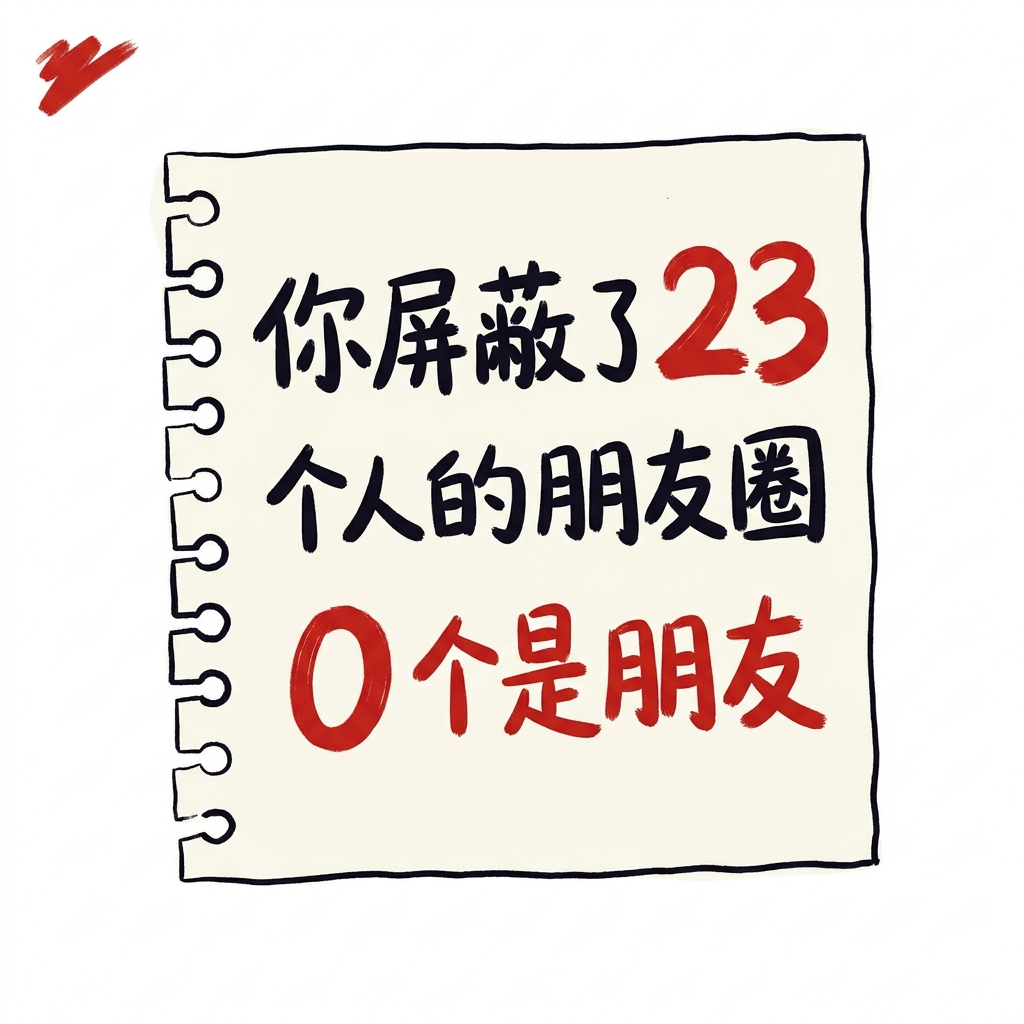
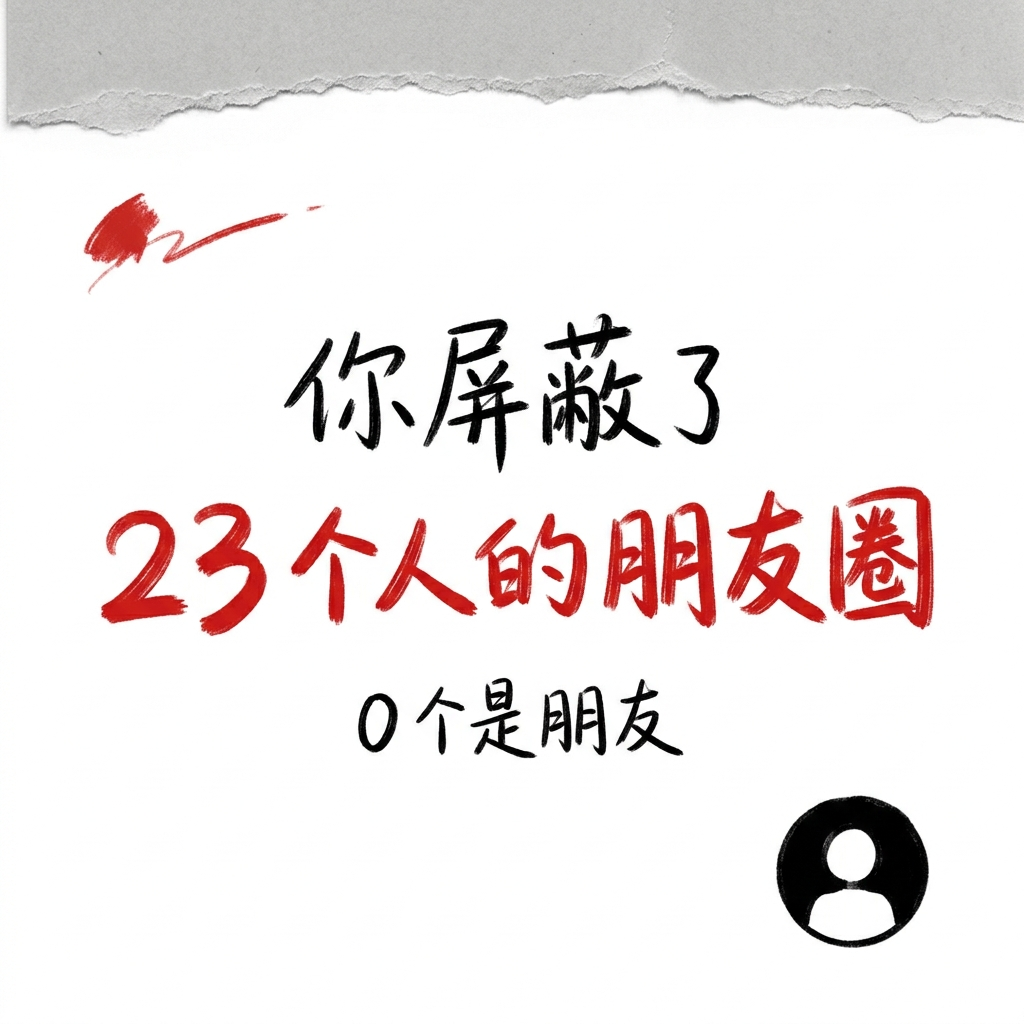
v2.8.6 修正: 005/006 配图改成跟公众号 020/021 同款风格 (纯白底 + 黑色手写 + 红色高亮)
之前两次纠正都错:
1. 第一次改纯白底 (方向对但无文字太空)
2. 改回撕下草稿纸 (错! 用户原意是公众号配图风格)
3. 这次: 纯白底 + 顶部轻微撕下边装饰 (1-2cm) + 黑色手写完整段落 + 红色高亮 + 简洁插画 + 红色 brush stroke

跟 015 GPT-5.6 / 020 大厂门票 / 021 OpenAI 降价 配图同源:
- 纯白底 (no 米色草稿纸, no 锯齿边, no 装订孔)
- 顶部 1-2cm 灰色撕下边装饰 (跟 020 一样, 不是整个草稿纸)
- 黑色手写中文 (每张图承载 1 段完整话)
- 红色高亮 (大字数字/关键词)
- 1 个简洁插画元素
- 留白多
- 红色 brush stroke 装饰

文字内容不变 (屏蔽朋友圈 23/0, 工位 1 小时 12/0), 只重做配图风格。
README + content.md + DOUYIN-DRAFT-IDS 同步更新'按公众号配图风格' 的真正含义

Changed region(s): [[0.0, 0.0, 1.0, 0.9375], [0.25, 0.1875, 0.2812, 0.2188]]

diff --git a/doc/douyin/README.md b/doc/douyin/README.md
@@ -61,9 +61,10 @@ tags:                 # 3-5 个话题标签
   - 4-6 张: 中等 (经典结构: 封面 + 引入 + 转折 + 图解 + 扎心 + 可选 CTA)
   - 7-9 张: 完整 (适合多步骤解释/案例对比/概念拆解)
   - 默认 4-6 张, 按主题增减
-- **风格**: xiaofan-ink 风格 (白底手绘/撕下草稿纸/线条) + 心理学元素
-  - 撕下草稿纸风格: 米色草稿纸 + 锯齿边 + 左侧装订孔 + 红色 brush stroke 装饰
-  - 005/006 (v2.8.6) 跟 003/004 保持同款风格, 用户反馈"突出线条" 是在草稿纸框架内把线条做得更松/更飞白,不是去掉草稿纸
+- **风格**: xiaofan-ink 风格 (白底手绘/线条) + 心理学元素
+  - **v2.8.6 修正 (8/25)**: 抖音图文配图改成跟公众号 015/020/021 同款 — **纯白底 + 顶部轻微撕下边 (1-2cm 装饰) + 黑色手写完整段落 + 红色高亮 + 简洁插画 + 红色 brush stroke**
+  - 砍掉 003/004 的"撕下草稿纸" 整体框架 (米色 + 锯齿边 + 装订孔), 跟公众号配图同源
+  - 之前两次纠正都错 (v2.8.6 改纯白底没文字 → 改回撕下草稿纸 → 再次改回纯白底带文字)
 - **新流程前置**: 写每篇之前先列"配图说明表" (在 content.md 末尾), 标每张图的内容/风格/作用
 - **抖音配图全状态** (不画人物动作), 跟公众号"动作型→IP" 规则解耦
 - **每张配图配 1 个心理学插画元素** (v2.7.2 起, 不只是文字, 还要有 1 个概念图: 天平/账本/箭头/对话气泡/小剪影/问号)

diff --git a/doc/douyin/DOUYIN-DRAFT-IDS.md b/doc/douyin/DOUYIN-DRAFT-IDS.md
@@ -42,7 +42,7 @@
 - 私密: 屏蔽朋友圈 (005), 假装忙碌 (006)
 - 钩子: 强金句收尾
 
-**风格 (v2.8.6 修正, 8/25)**: 005/006 跟 003/004 保持同款"撕下草稿纸 + 红色 brush stroke + 黑色手写" 风格。 之前 v2.8.6 尝试改成"纯白底 + 红色大字" 风格, 用户反馈"还不如之前的", 改回原样。
+**风格 (v2.8.6 修正, 8/25)**: 005/006 改成跟公众号 015/020/021 配图同款 — **纯白底 + 顶部轻微撕下边装饰 + 黑色手写完整段落 + 红色高亮 + 简洁插画 + 红色 brush stroke**。 砍掉 003/004 的"撕下草稿纸" 整体框架, 跟公众号配图同源。 之前两次纠正都错 (改纯白底无文字 → 改回撕下草稿纸 → 再次改回纯白底带文字), 用户原意是"按公众号配图那种风格"。
 
 ---
 

diff --git a/doc/douyin/005-mute-23-friends/content.md b/doc/douyin/005-mute-23-friends/content.md
@@ -66,9 +66,9 @@ tags:
 
 ---
 
-# 配图说明 (跟 003/004 撕下草稿纸同款风格)
+# 配图说明 (跟公众号 020/021 配图同款风格)
 
-> **风格 (v2.8.6 修正)**: 用户反馈"突出线条" 是在撕下草稿纸框架内把线条做得更松, 005/006 跟 003/004 保持完全一致的"撕下草稿纸 + 红色 brush stroke + 黑色手写" 风格。
+> **风格 (v2.8.6 修正, 8/25)**: 抖音图文配图改成跟公众号 015/020/021 配图同款 — **纯白底 + 顶部轻微撕下边装饰 + 黑色手写完整段落 + 红色高亮 + 简洁插画 + 红色 brush stroke**。 砍掉 003/004 的"撕下草稿纸" 整体框架 (米色 + 锯齿边 + 装订孔), 跟公众号同源。
 
 | 文件 | 内容 | 风格 | 作用 |
 |---|---|---|---|

diff --git a/doc/douyin/006-fake-busy/content.md b/doc/douyin/006-fake-busy/content.md
@@ -73,9 +73,9 @@ tags:
 
 ---
 
-# 配图说明 (跟 003/004 撕下草稿纸同款风格)
+# 配图说明 (跟公众号 020/021 配图同款风格)
 
-> **风格 (v2.8.6 修正)**: 用户反馈"突出线条" 是在撕下草稿纸框架内把线条做得更松, 005/006 跟 003/004 保持完全一致的"撕下草稿纸 + 红色 brush stroke + 黑色手写" 风格。
+> **风格 (v2.8.6 修正, 8/25)**: 抖音图文配图改成跟公众号 015/020/021 配图同款 — **纯白底 + 顶部轻微撕下边装饰 + 黑色手写完整段落 + 红色高亮 + 简洁插画 + 红色 brush stroke**。 砍掉 003/004 的"撕下草稿纸" 整体框架, 跟公众号同源。
 
 | 文件 | 内容 | 风格 | 作用 |
 |---|---|---|---|
